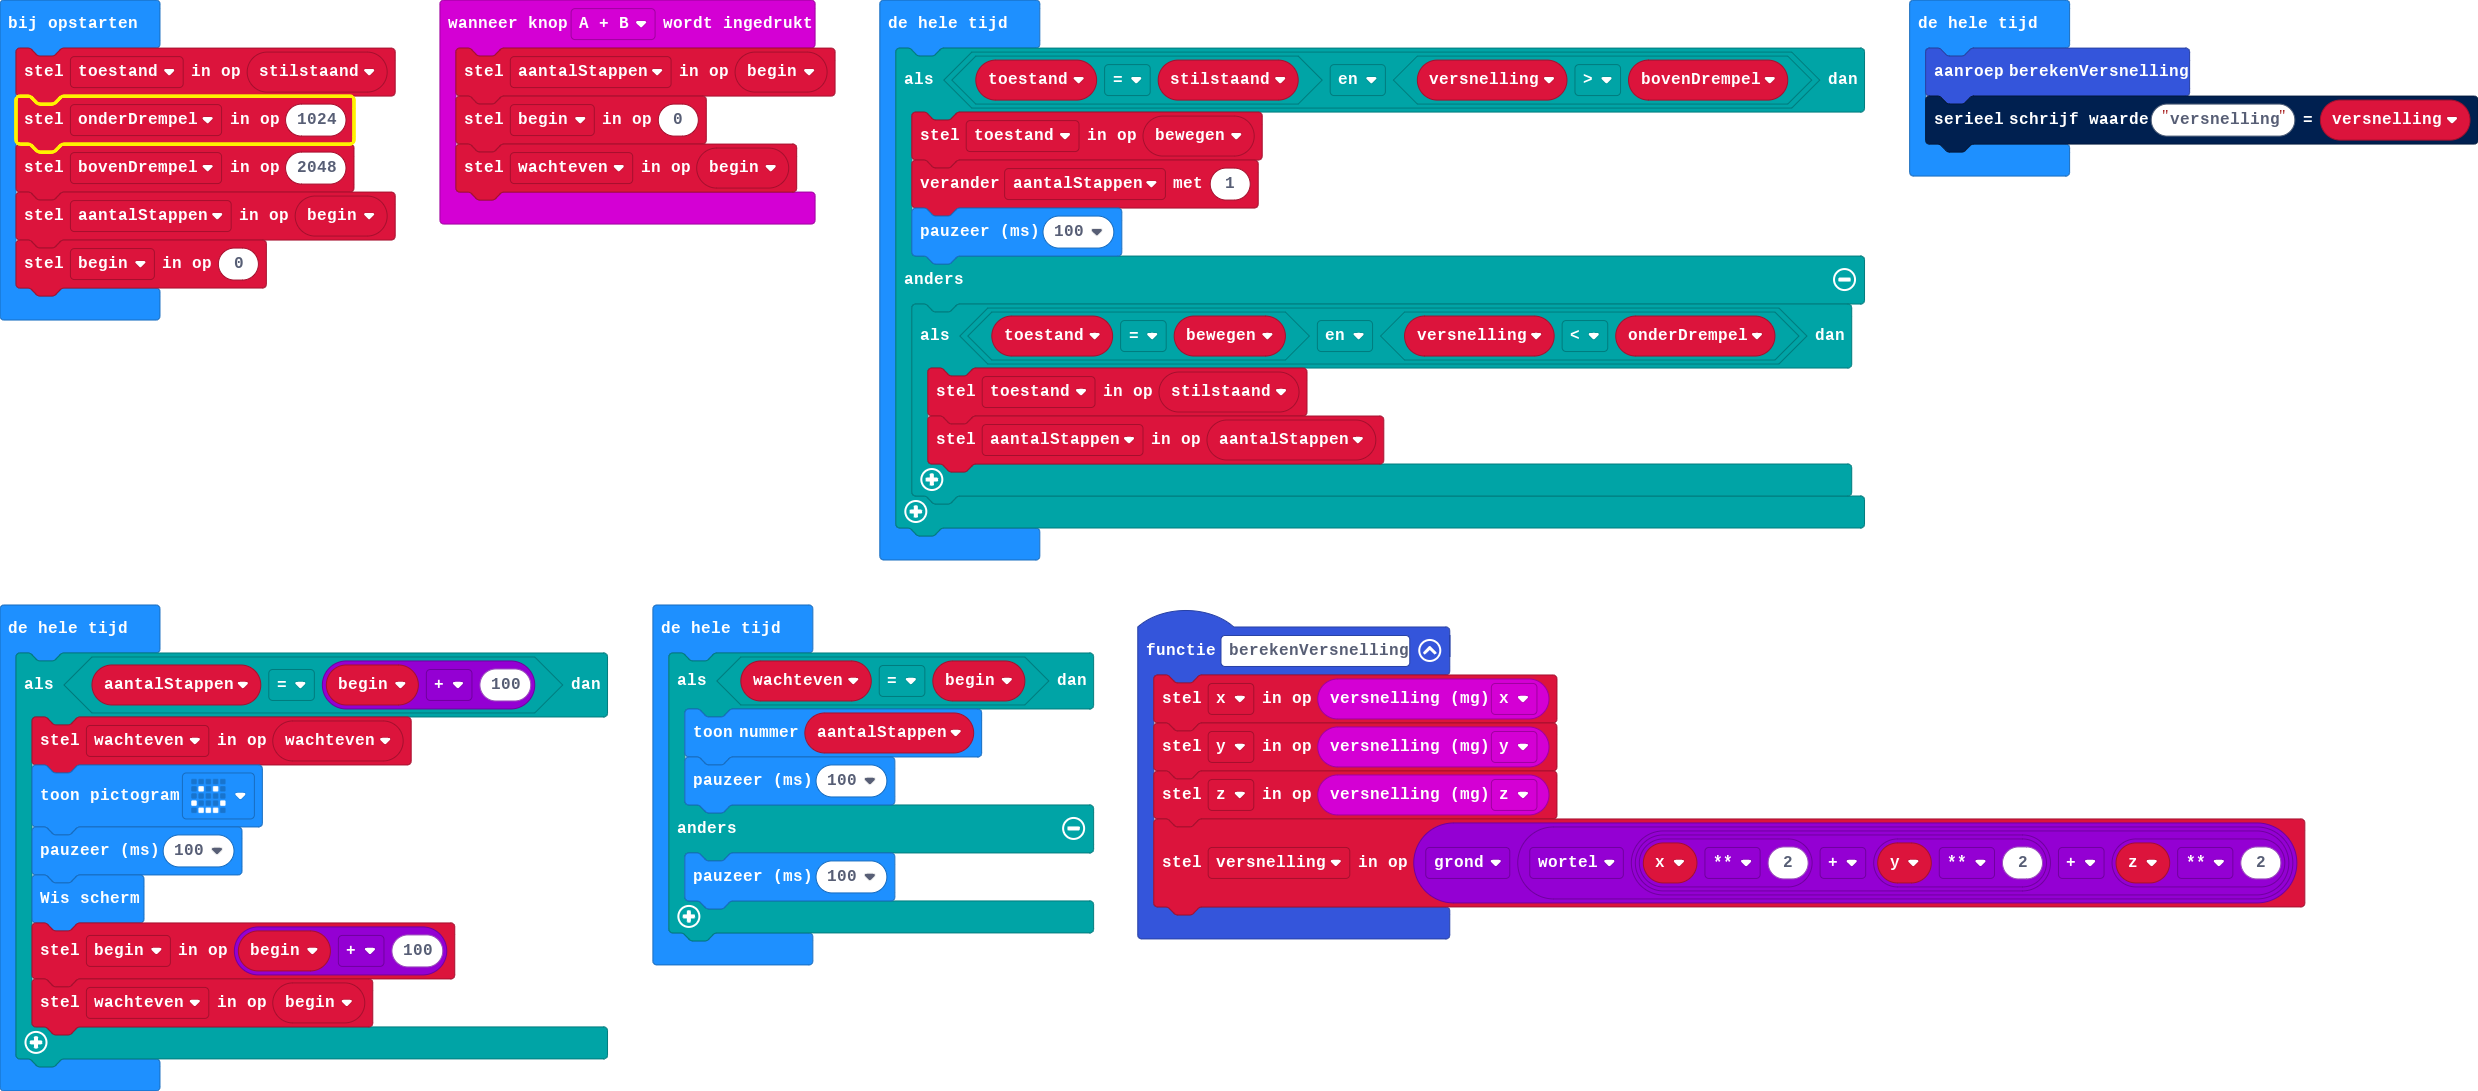
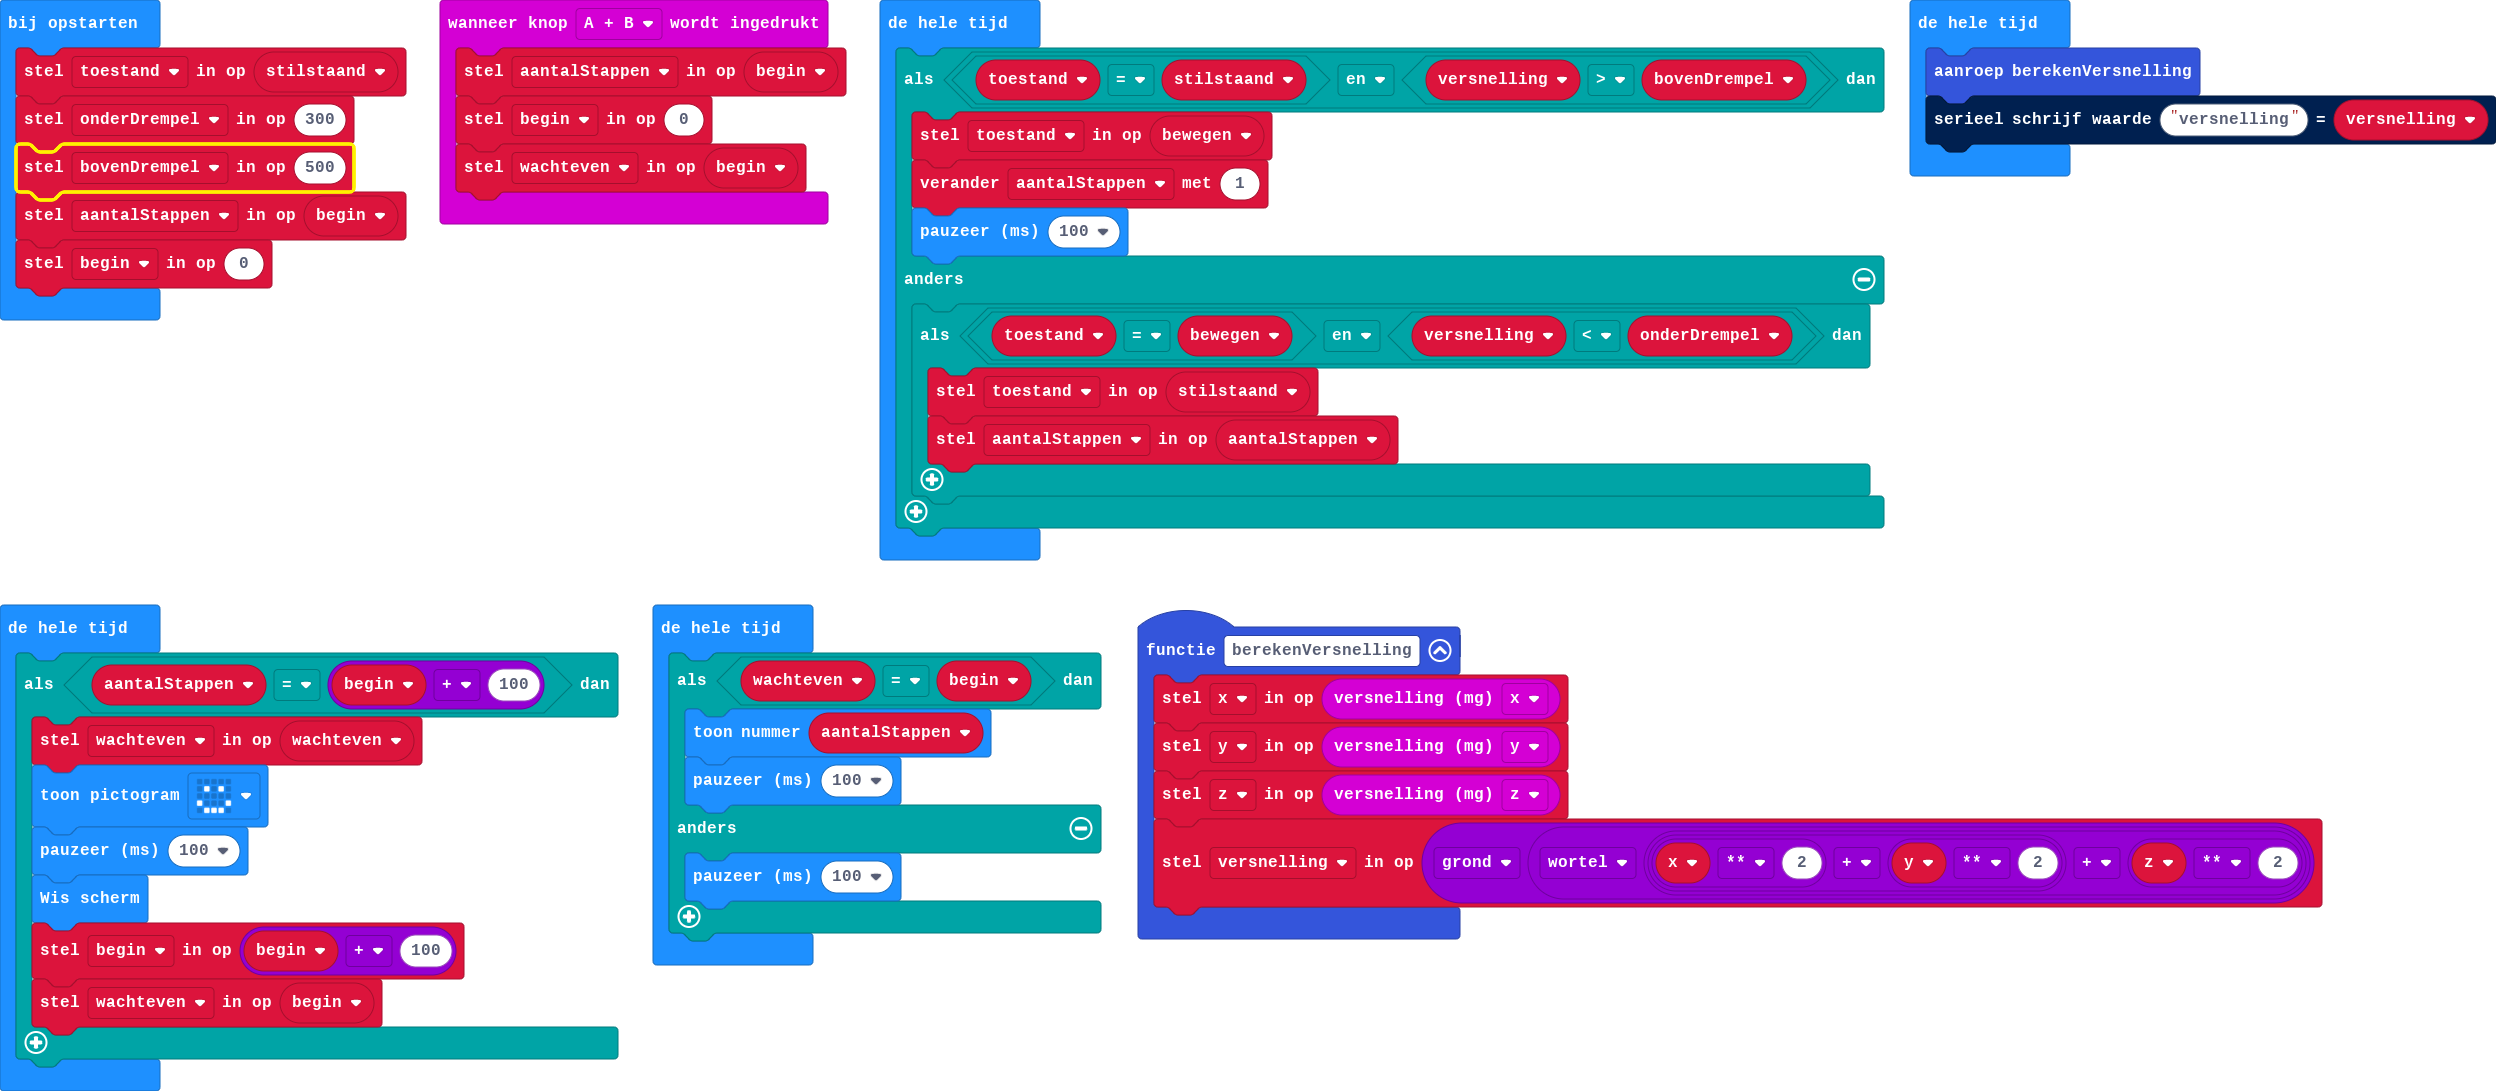
main.blocks, main.ts bijwerken

diff --git a/main.ts b/main.ts
@@ -18,8 +18,8 @@ let begin = 0
 let aantalStappen = 0
 let stilstaand = 0
 let toestand = stilstaand
-let onderDrempel = 1024
-let bovenDrempel = 2048
+let onderDrempel = 300
+let bovenDrempel = 500
 aantalStappen = begin
 begin = 0
 basic.forever(function () {
